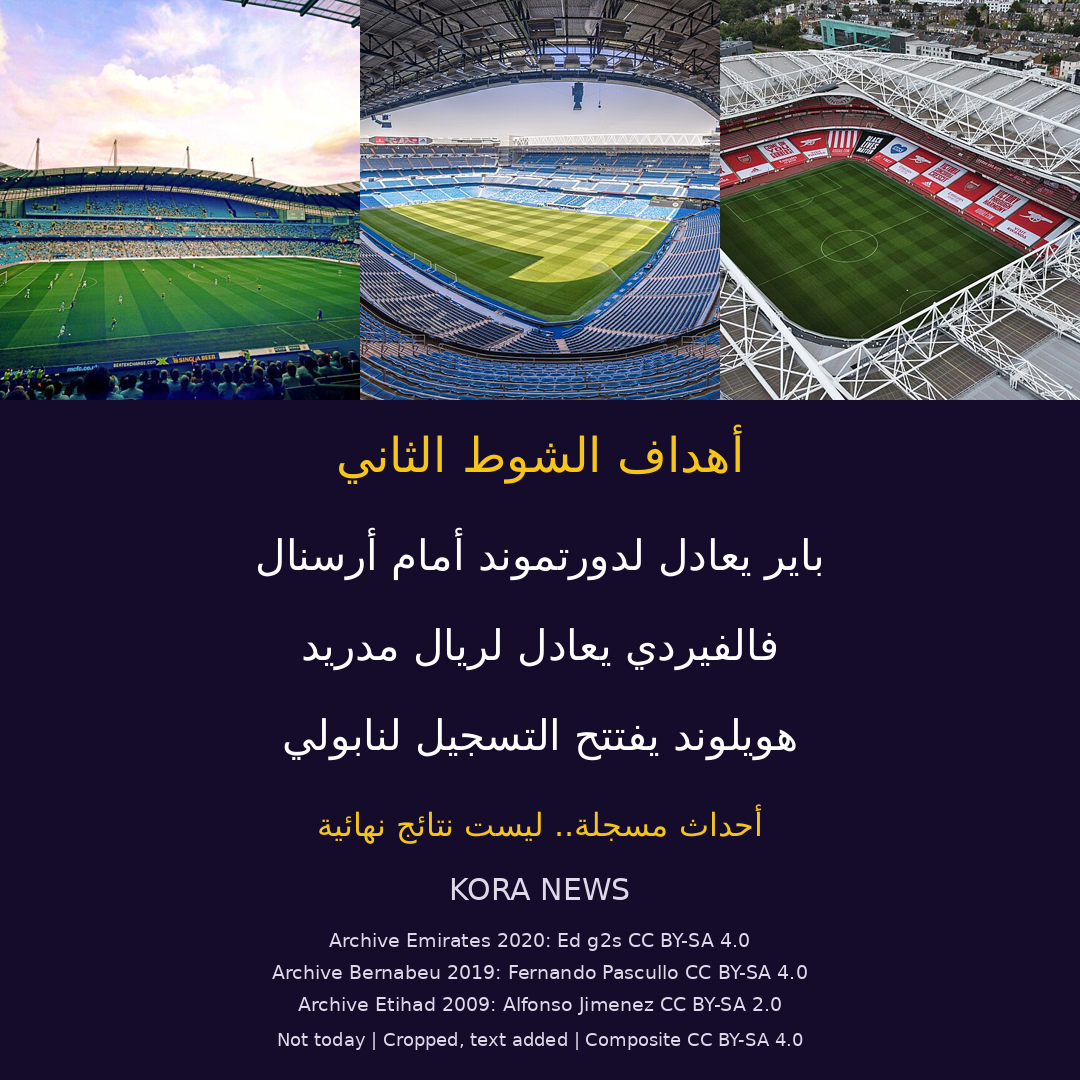
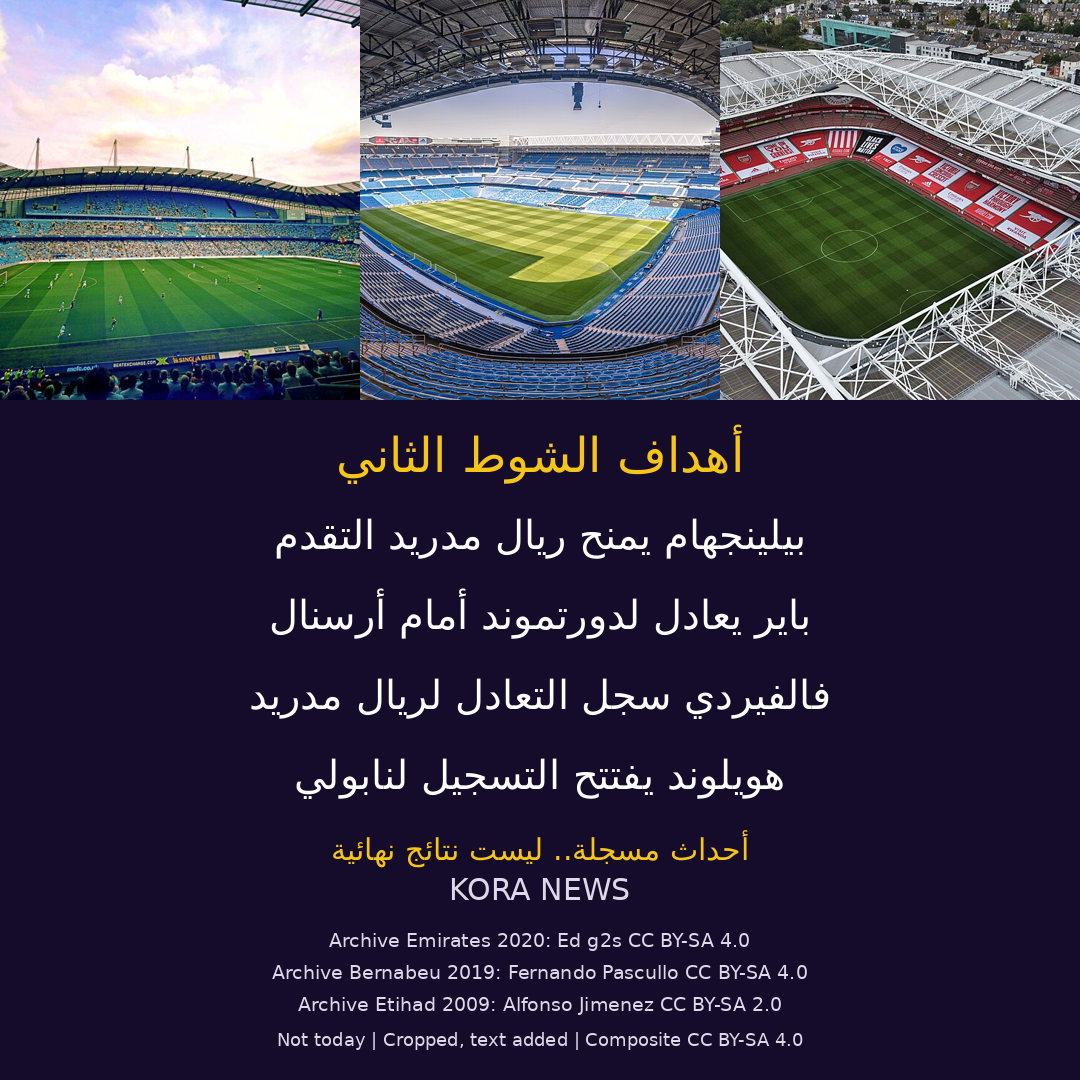
Add verified Bellingham lead event to second half roundup

Changed region(s): [[0.2444, 0.4889, 0.7639, 0.7944]]

diff --git a/posts/2026-11-24-beier-valverde-equalizer-events.md b/posts/2026-11-24-beier-valverde-equalizer-events.md
@@ -1,13 +1,19 @@
 ---
-title: تعادل باير وفالفيردي.. وهويلوند يفتتح التسجيل لنابولي
+title: بيلينجهام يمنح ريال مدريد التقدم.. وأهداف لدورتموند ونابولي
 slug: beier-valverde-equalizer-events
-date: 2026-11-24T23:27:00+02:00
+date: 2026-11-24T23:33:00+02:00
 category: متابعة المباريات
-excerpt: سجل ماكسيميليان باير تعادل دورتموند أمام أرسنال، وأدرك فيديريكو فالفيردي التعادل لريال مدريد أمام آيندهوفن. وسجل راسموس هويلوند هدف تقدم نابولي أمام مانشستر سيتي. خبر مؤرخ عن الأهداف، وليس تحديثًا للنتائج الحالية أو النهائية.
+excerpt: سجل بيلينجهام هدف تقدم ريال مدريد أمام آيندهوفن في الدقيقة 60، بعد تعادل فالفيردي. وسجل ماكسيميليان باير تعادل دورتموند أمام أرسنال، وأدرك فيديريكو فالفيردي التعادل لريال مدريد أمام آيندهوفن. وسجل راسموس هويلوند هدف تقدم نابولي أمام مانشستر سيتي. خبر مؤرخ عن الأهداف، وليس تحديثًا للنتائج الحالية أو النهائية.
 image: beier-valverde-equalizers.png
 ---
 
 سجل **ماكسيميليان باير هدف التعادل لبوروسيا دورتموند أمام أرسنال**، وأحرز **فيديريكو فالفيردي هدف التعادل لريال مدريد أمام آيندهوفن**، خلال مباراتي دوري أبطال أوروبا يوم **24 نوفمبر 2026**. أصبحت نتيجة كل مباراة **هدفًا لكل فريق عند تسجيل هدف التعادل**.
+
+## بيلينجهام يمنح ريال مدريد التقدم
+
+**تحديث عند 23:31 بتوقيت القاهرة:** سجل **جود بيلينجهام في الدقيقة 60** هدفًا جعل ريال مدريد يتقدم على آيندهوفن **بهدفين مقابل هدف وقت تسجيله**، وفق BBC Sport وESPN. هذا وصف للحظة الهدف، وليس تأكيدًا للنتيجة الحالية أو النهائية.
+
+نشرت BBC الحدث عند **21:19 غرينتش، أي 23:19 بالقاهرة**، ووصلت أحدث إدخالاتها الظاهرة عند المراجعة إلى **21:22 غرينتش، أي 23:22 بالقاهرة**.
 
 ## باير يسجل في الدقيقة 55
 
@@ -34,6 +40,8 @@ image: beier-valverde-equalizers.png
 - [AS: هدف فالفيردي أمام آيندهوفن](https://en.as.com/soccer/real-madrid-vs-psv-eindhoven-live-online-score-stats-goals-updates-champions-league-202627-f202611-n/).
 
 - [PlanetSport: هدف هويلوند أمام مانشستر سيتي](https://livesoccer.planetsport.com/live/soccer/match-detail/international-uefa-champions-league-manchester-city-vs-ssc-napoli/2026-11-24/3362399/commentary).
+
+- [ESPN: هدف بيلينجهام في الدقيقة 60](https://www.espn.com/soccer/match/_/gameId/401915298).
 
 ## الصور وحقوق الاستخدام
 
